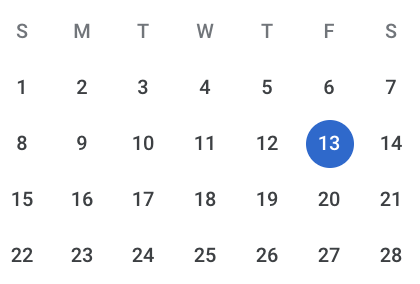
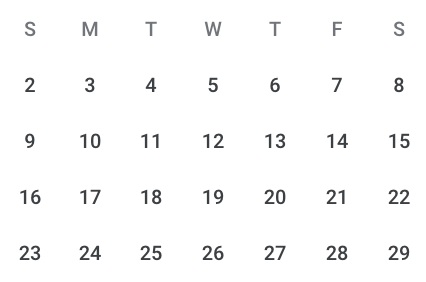
Change date/time/place to TBD

diff --git a/client/lib/pages/home.dart b/client/lib/pages/home.dart
@@ -39,14 +39,14 @@ class _Body extends StatelessWidget {
             mainAxisAlignment: MainAxisAlignment.center,
             children: <Widget>[
               _InfoCard('assets/images/cal.png', [
-                'DECEMBER 13',
-                '12 - 6 PM',
+                'FEB 2020',
+                'TBD',
                 ''
               ]),
               _InfoCard('assets/images/map.png', [
-                'MAKERS',
-                '92 LENORA ST',
-                'SEATTLE'
+                'SEATTLE',
+                'TBD',
+                '',
               ])
             ],
           ),
@@ -122,22 +122,23 @@ class _Body extends StatelessWidget {
               ),
             ],
           ),
-          FlatButton(
-            child: Text(
-              'Add To Calendar',
-              style: TextStyle(
-                color: Colors.white,
-              ),
-            ),
-            onPressed: () => {
-              if (isMobileDevice(context)) {
-                openOther()
-              } else {
-                chooseProvider(context)
-              }
-            },
-            color: Colors.redAccent,
-          )
+//          FlatButton(
+//            child: Text(
+//              'Add To Calendar',
+//              style: TextStyle(
+//                color: Colors.white,
+//              ),
+//            ),
+//
+//            onPressed: () => {
+//              if (isMobileDevice(context)) {
+//                openOther()
+//              } else {
+//                chooseProvider(context)
+//              }
+//            },
+//            color: Colors.redAccent,
+//          )
         ],
       ),
     );
